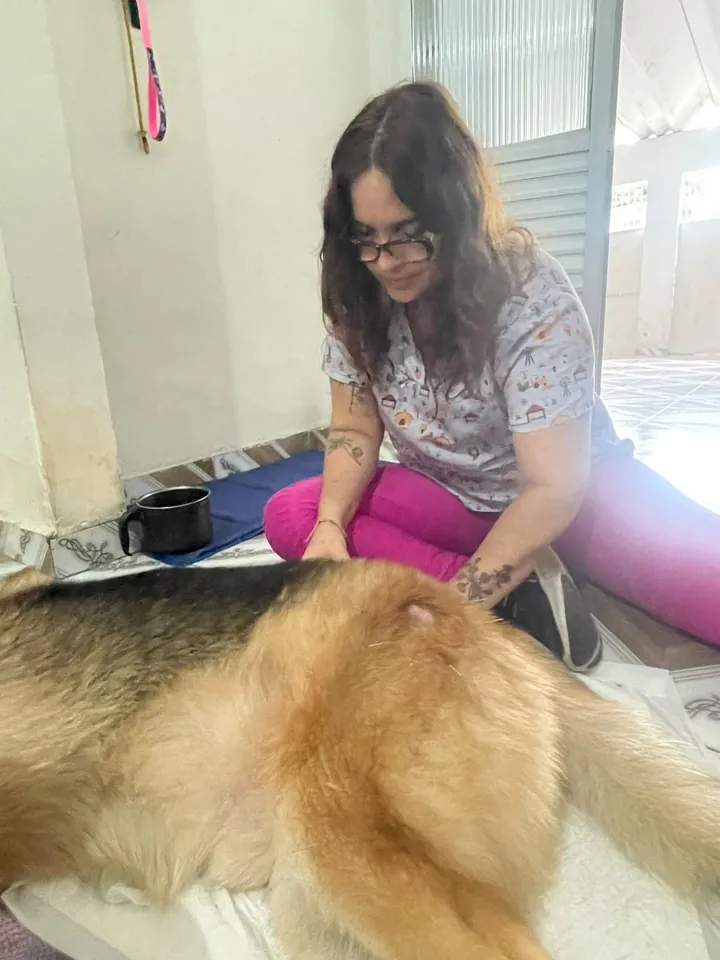
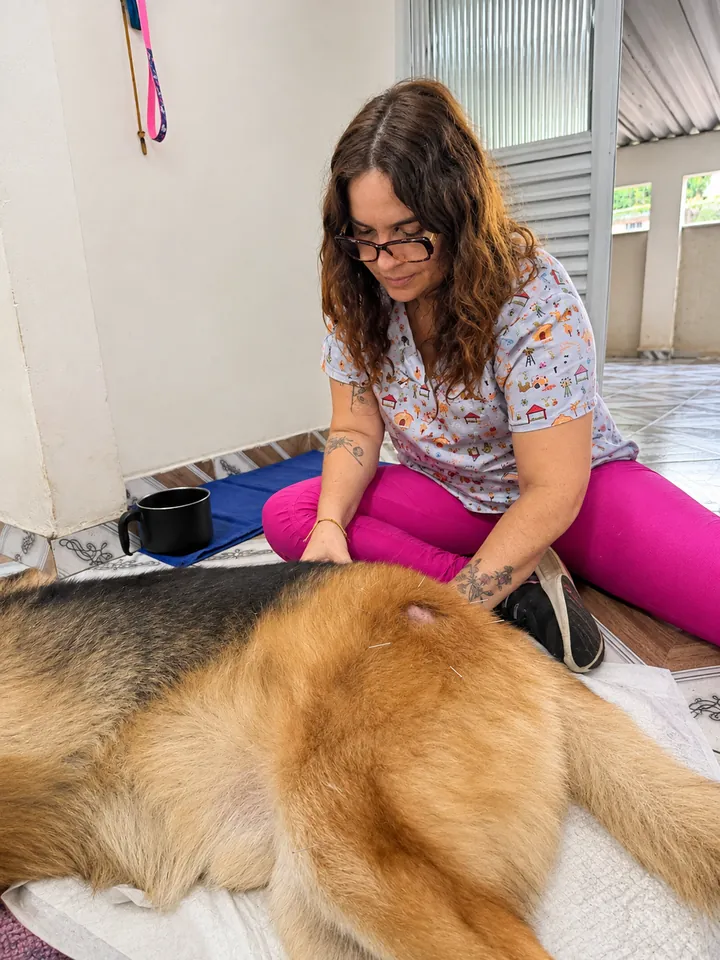
Aviso de cookies vira cartão no desktop, sem animação no hover; foto da acupuntura melhorada

diff --git a/site/components/ui/AvisoCookies.tsx b/site/components/ui/AvisoCookies.tsx
@@ -2,6 +2,7 @@
 
 import { useEffect, useRef } from "react";
 import Link from "next/link";
+import { ShieldCheckIcon } from "@phosphor-icons/react/dist/ssr";
 import { COOKIE_ESCOLHA, avisoCookies } from "@/content/medicao";
 
 /**
@@ -18,6 +19,13 @@ import { COOKIE_ESCOLHA, avisoCookies } from "@/content/medicao";
  *
  * A altura da faixa vira `--altura-cookies`, que sobe a barra de agendamento
  * e o botão flutuante: o aviso nunca tapa o botão de WhatsApp.
+ *
+ * DESKTOP (31/10/2026, JM): os botões mudavam de cor com transição ao passar
+ * o mouse, e a faixa de ponta a ponta parecia um rodapé solto. No desktop o
+ * aviso virou um cartão no canto esquerdo, do lado oposto ao WhatsApp, e os
+ * botões não reagem mais ao cursor (só o foco do teclado aparece). Como o
+ * cartão não ocupa a largura, ele não empurra o botão flutuante. O celular
+ * continua com a faixa de antes.
  */
 /**
  * Grava a escolha e liga ou desliga a medição. Fica fora do componente porque
@@ -56,12 +64,18 @@ export function AvisoCookies() {
     const el = faixa.current;
     if (!el) return;
     const raiz = document.documentElement;
-    const medir = () => raiz.style.setProperty("--altura-cookies", `${el.offsetHeight}px`);
+    // Só a faixa de ponta a ponta (celular) empurra o WhatsApp; o cartão do desktop fica do outro lado.
+    const medir = () => {
+      const faixaInteira = el.offsetWidth >= window.innerWidth - 1;
+      raiz.style.setProperty("--altura-cookies", `${faixaInteira ? el.offsetHeight : 0}px`);
+    };
     const observador = new ResizeObserver(medir);
     observador.observe(el);
+    window.addEventListener("resize", medir);
     medir();
     return () => {
       observador.disconnect();
+      window.removeEventListener("resize", medir);
       raiz.style.removeProperty("--altura-cookies");
     };
   }, []);
@@ -71,22 +85,34 @@ export function AvisoCookies() {
       ref={faixa}
       role="region"
       aria-label="Aviso de cookies"
-      className="aviso-cookies fixed inset-x-0 bottom-0 z-[60] border-t border-hairline bg-surface pb-[env(safe-area-inset-bottom)] print:hidden"
+      className="aviso-cookies fixed inset-x-0 bottom-0 z-[60] border-t border-hairline bg-surface pb-[env(safe-area-inset-bottom)] print:hidden lg:inset-x-auto lg:bottom-6 lg:left-6 lg:w-[380px] lg:rounded-3xl lg:border lg:border-hairline/60 lg:pb-0 lg:shadow-[0_24px_48px_-20px_rgb(4_30_40/0.45)]"
     >
-      <div className="mx-auto flex max-w-6xl flex-col gap-2 px-4 py-2.5 sm:flex-row sm:items-center sm:gap-6 sm:px-8">
-        <p className="text-[13.5px] leading-[1.45] text-text-2 sm:flex-1">
-          {avisoCookies.texto}{" "}
-          <Link href="/politica-de-privacidade/#cookies" className="text-text underline underline-offset-2">
-            {avisoCookies.politica}
-          </Link>
-        </p>
-        <div className="grid grid-cols-2 gap-2.5 sm:flex sm:shrink-0">
+      <div className="mx-auto flex max-w-6xl flex-col gap-2 px-4 py-2.5 sm:flex-row sm:items-center sm:gap-6 sm:px-8 lg:flex-col lg:items-stretch lg:gap-4 lg:p-5">
+        <div className="sm:flex-1 lg:flex lg:gap-3.5">
+          <span
+            aria-hidden
+            className="hidden lg:mt-0.5 lg:flex lg:size-10 lg:shrink-0 lg:items-center lg:justify-center lg:rounded-full lg:bg-surface-2 lg:text-brand-deep"
+          >
+            <ShieldCheckIcon size={20} weight="duotone" />
+          </span>
+          <div>
+            <p className="hidden font-display text-base font-bold text-text lg:block">{avisoCookies.titulo}</p>
+            <p className="text-[13.5px] leading-[1.45] text-text-2 lg:mt-1 lg:text-sm lg:leading-relaxed">
+              {avisoCookies.texto}{" "}
+              <Link href="/politica-de-privacidade/#cookies" className="text-text underline underline-offset-2">
+                {avisoCookies.politica}
+              </Link>
+            </p>
+          </div>
+        </div>
+        {/* Recusar e Aceitar com o mesmo peso, e sem reação ao cursor. */}
+        <div className="grid grid-cols-2 gap-2.5 sm:flex sm:shrink-0 lg:grid">
           {[false, true].map((aceitar) => (
             <button
               key={String(aceitar)}
               type="button"
               onClick={() => escolher(aceitar)}
-              className="h-10 rounded-full border border-text-3/70 px-5 text-sm font-semibold text-text transition-colors duration-200 hover:border-brand hover:text-acao-texto sm:min-w-[120px]"
+              className="h-10 rounded-full border border-text-3/70 px-5 text-sm font-semibold text-text focus-visible:outline-2 focus-visible:outline-offset-2 focus-visible:outline-brand sm:min-w-[120px] lg:min-w-0"
             >
               {aceitar ? avisoCookies.aceitar : avisoCookies.recusar}
             </button>

diff --git a/site/content/paginas-servicos.ts b/site/content/paginas-servicos.ts
@@ -944,6 +944,8 @@ export const ortopedia: Pagina = {
  * pós-cirúrgico e o bem-estar do pet idoso. Nada além disso é afirmado.
  * VALIDAR: duração da sessão, quantas sessões costuma levar, se atende em
  * domicílio (a foto da sessão não parece ser na clínica) e preço.
+ * A foto da sessão foi melhorada no ChatGPT (nitidez, luz e cor, mesmo
+ * conteúdo), em 31/10/2026; a original fica em _fontes/equipe/.
  */
 export const acupuntura: Pagina = {
   caminho: "/acupuntura-veterinaria",

diff --git a/site/content/medicao.ts b/site/content/medicao.ts
@@ -29,6 +29,8 @@ export const medicaoLigada = !ehProposta && Boolean(GA4_ID);
 export const COOKIE_ESCOLHA = "kf_cookies";
 
 export const avisoCookies = {
+  /** Só no cartão do desktop (31/10/2026); no celular a faixa fica só com o texto. */
+  titulo: "Sua privacidade",
   texto:
     "Cookies de análise só se você aceitar. Recusar não muda nada no site.",
   recusar: "Recusar",
